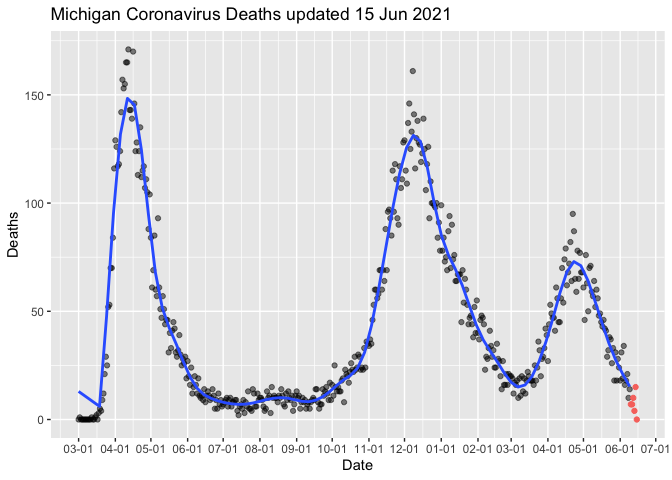
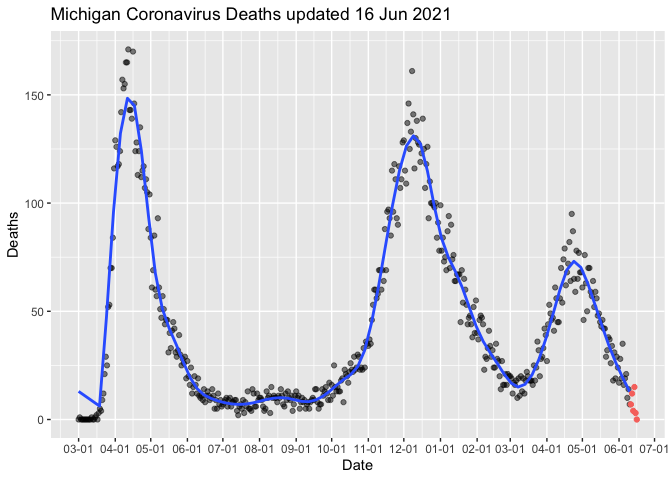
Jun-17 2021 11:23 update

diff --git a/MiCorona.md b/MiCorona.md
@@ -1,7 +1,7 @@
 Michigan COVID Data
 ================
 Adam D. DenHaan
-Jun 16, 2021
+Jun 17, 2021
 
 Get link for data:
 
@@ -47,12 +47,12 @@ mi_data.head()
     ## 3  Alcona 2020-03-04   Confirmed    0.0     0.0               0.0   
     ## 4  Alcona 2020-03-05   Confirmed    0.0     0.0               0.0   
     ## 
-    ##    Deaths.Cumulative                       Updated  
-    ## 0                0.0 2021-06-15 13:20:17.069900032  
-    ## 1                0.0 2021-06-15 13:20:17.069900032  
-    ## 2                0.0 2021-06-15 13:20:17.069900032  
-    ## 3                0.0 2021-06-15 13:20:17.069900032  
-    ## 4                0.0 2021-06-15 13:20:17.069900032
+    ##    Deaths.Cumulative                    Updated  
+    ## 0                0.0 2021-06-16 12:55:17.990400  
+    ## 1                0.0 2021-06-16 12:55:17.990400  
+    ## 2                0.0 2021-06-16 12:55:17.990400  
+    ## 3                0.0 2021-06-16 12:55:17.990400  
+    ## 4                0.0 2021-06-16 12:55:17.990400
 
 ``` python
 max_date = max(mi_data["Updated"])
